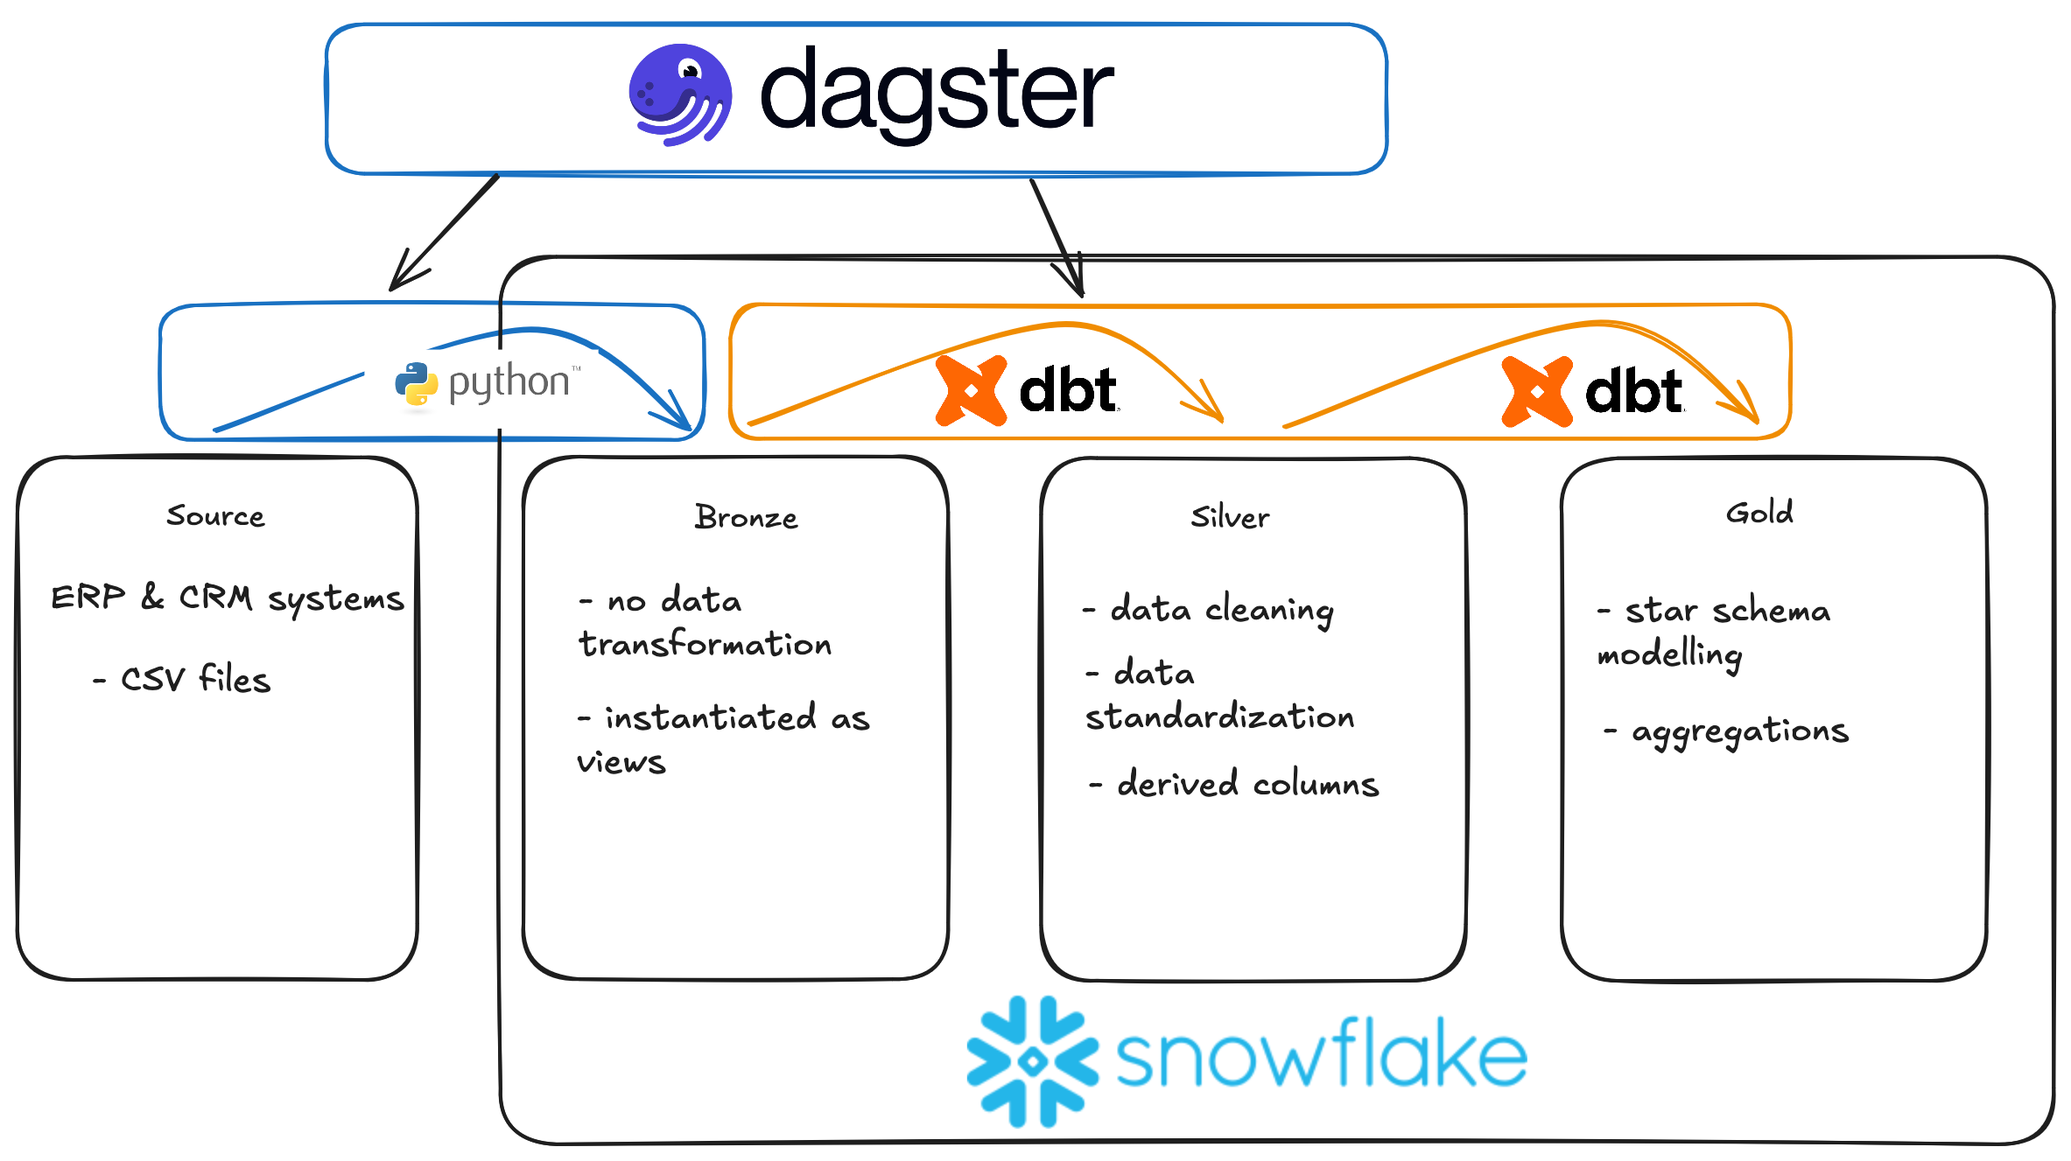
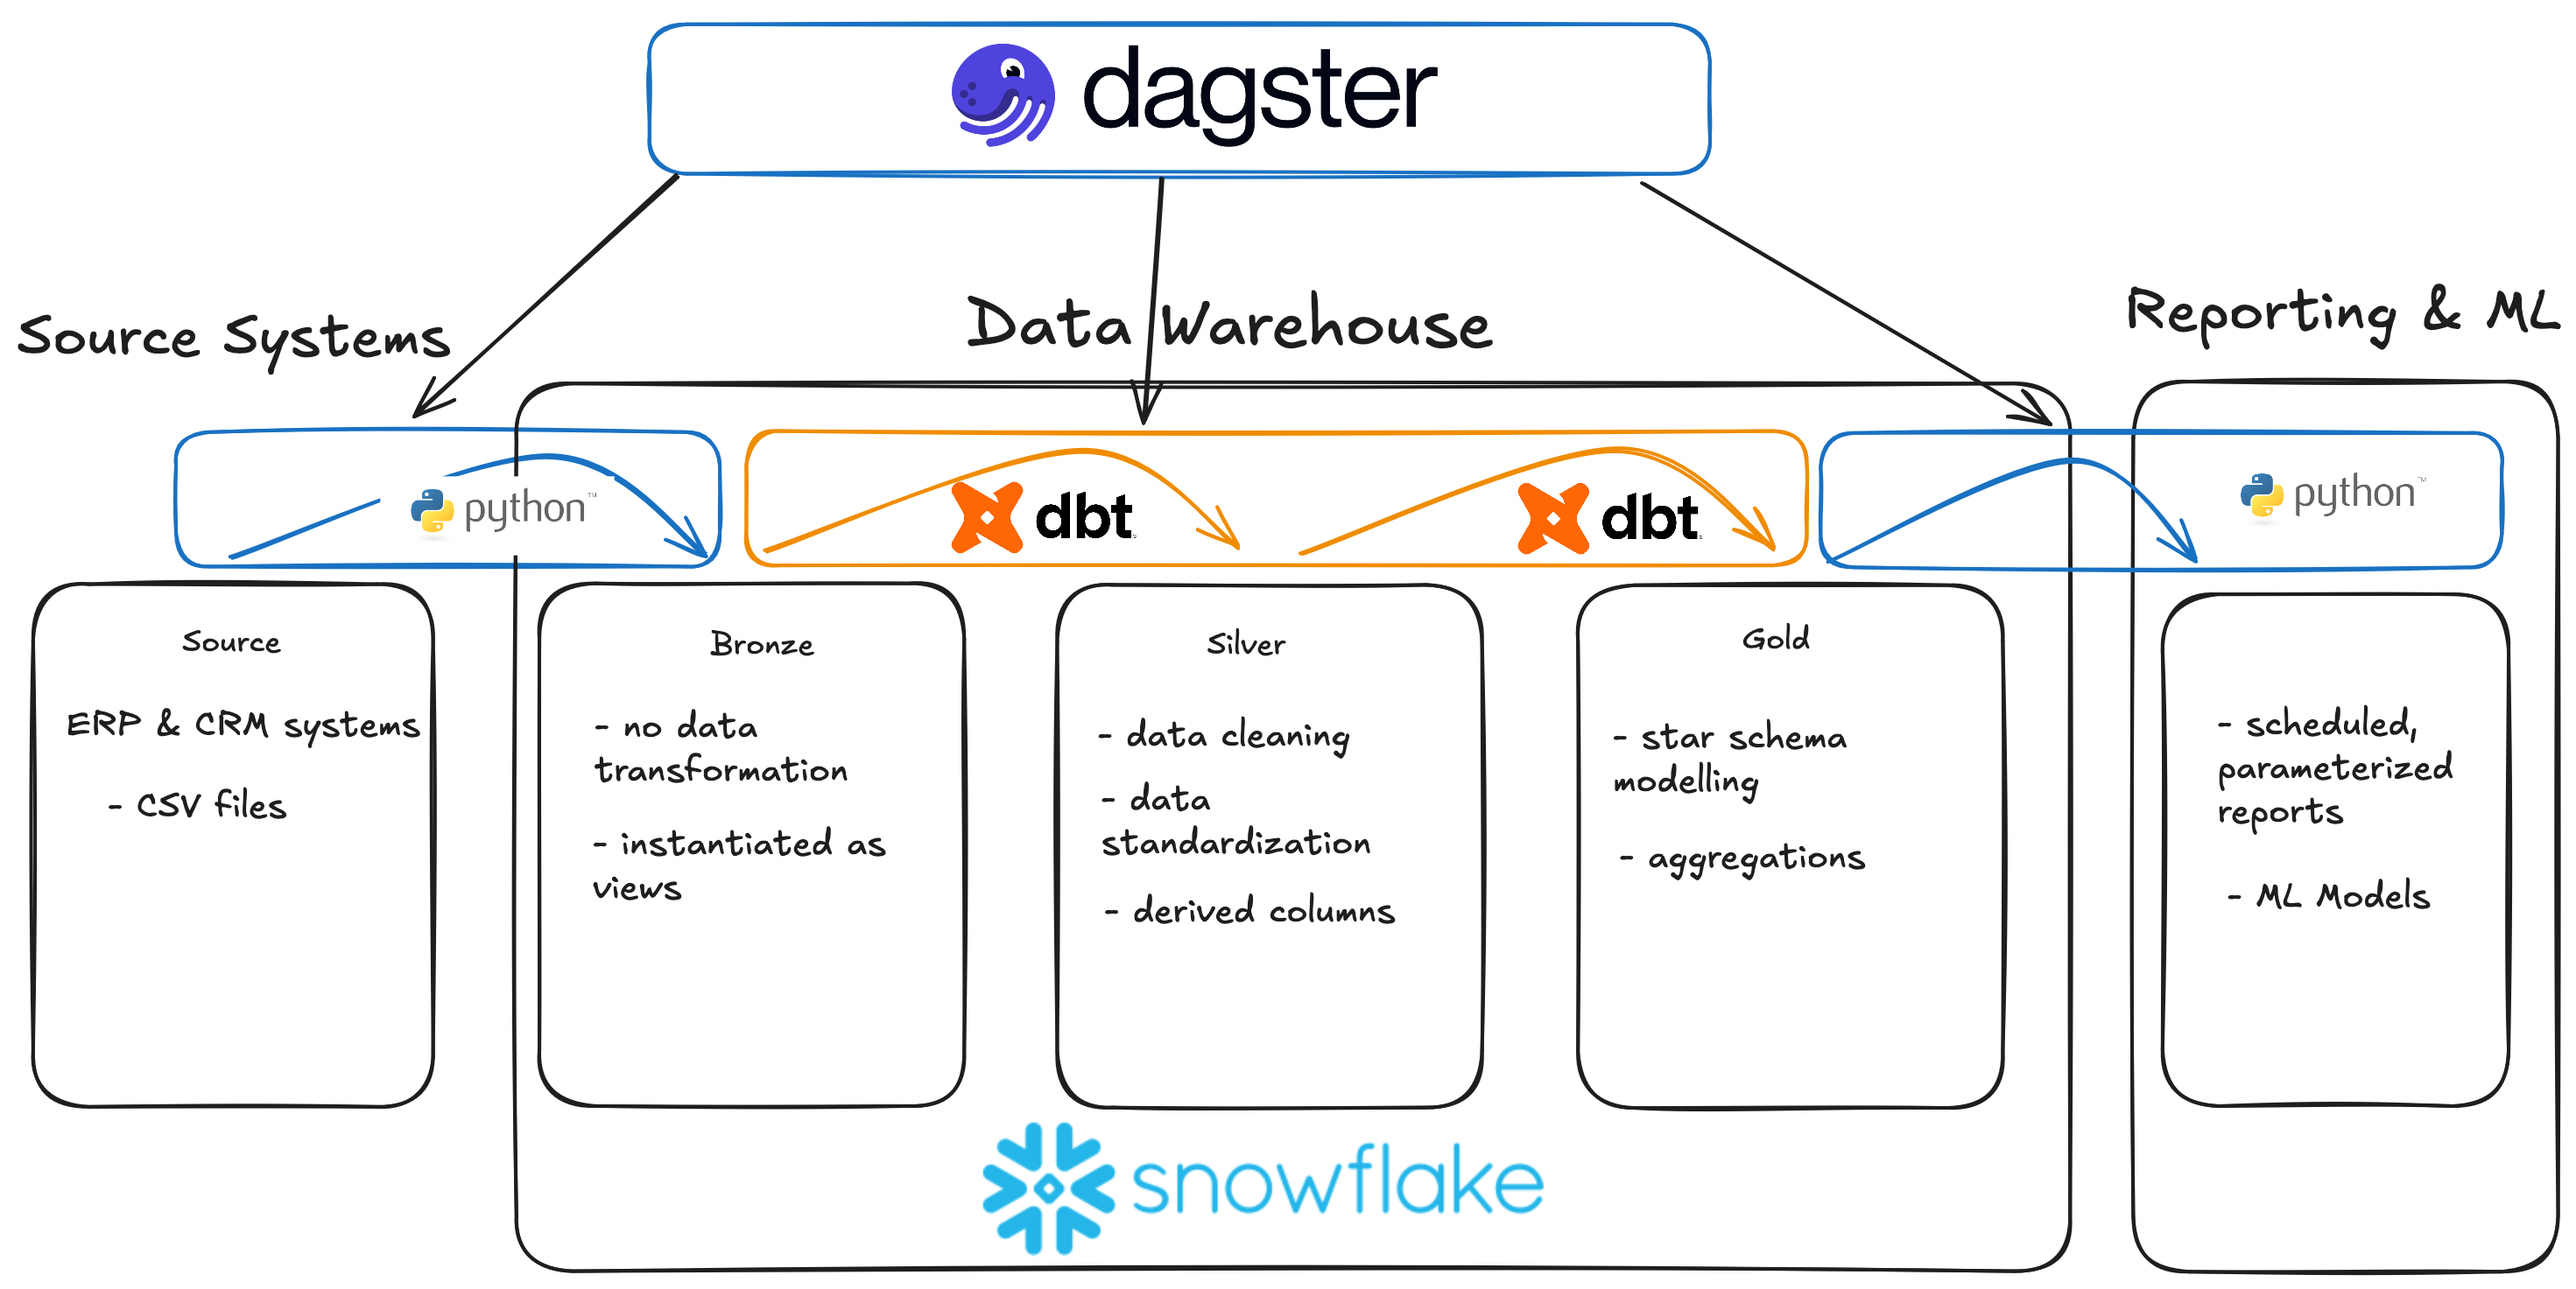
updated readme and overview

Changed region(s): [[0.0, 0.1854, 1.0, 0.9887], [0.1543, 0.0, 0.6788, 0.2163], [0.216, 0.9578, 0.2777, 0.9887]]

diff --git a/README.md b/README.md
@@ -1,20 +1,37 @@
 # Modern Data Warehouse & Analytics Project
-This project showcases an end-to-end modern data engineering workflow — from raw data ingestion to analytics-ready data models and insights — using **Snowflake**, **dbt**, and **Dagster**.
+This project showcases an end-to-end modern data engineering workflow — from
+raw data ingestion to analytics-ready data models and automatic report
+generation — using **Snowflake**, **dbt**, and **Dagster**.
 
 ## Overview
 ![Project Overview](assets/project_overview.png)
 
+![Monthly Report](assets/monthly_report.png)
 
 ## Motivation & Learning Outcomes
 
-I created this project to deepen my understanding of modern data engineering practices and gain a overview of the end-to-end data lifecycle — from raw data ingestion to analytics-ready insights. My main goal was to learn how to use dbt for modular, testable and version controlled data transformations, explore workflow orchestration with Dagster, and strengthen my skills in data modeling. 
+I created this project to deepen my understanding of modern data engineering
+practices and gain a overview of the end-to-end data lifecycle — from raw data
+ingestion to analytics-ready insights. My main goal was to learn how to use dbt
+for modular, testable and version controlled data transformations, explore
+workflow orchestration with Dagster, and strengthen my skills in data modeling. 
 
 ## Customer Story
-As an online retail company, our sales, customer, and product data come from multiple systems — making it difficult to generate consistent, timely insights. To support better decision-making and reporting, we needed a modern, scalable data platform that could unify these data sources and automate our analytics workflow.
+As an online retail company, our sales, customer, and product data come from
+multiple systems — making it difficult to generate consistent, timely insights.
+To support better decision-making and reporting, we needed a modern, scalable
+data platform that could unify these data sources and automate our analytics
+workflow.
 
-This project delivers that solution by implementing a cloud-based data warehouse and analytics pipeline using Snowflake, dbt, and Dagster. It modernizes our data flow end-to-end — from ingestion and transformation to business-ready reporting — following the Medallion Architecture (Bronze, Silver, Gold layers).
+This project delivers that solution by implementing a cloud-based data
+warehouse and analytics pipeline using Snowflake, dbt, and Dagster. It
+modernizes our data flow end-to-end — from ingestion and transformation to
+business-ready reporting — following the Medallion Architecture (Bronze,
+Silver, Gold layers).
 
-The result is a centralized, automated, and analytics-ready data environment that enables faster, more reliable insights into customer behavior, product performance, and sales trends.
+The result is a centralized, automated, and analytics-ready data environment
+that enables faster, more reliable insights into customer behavior, product
+performance, and sales trends.
 
 
 ## Data Architecture
